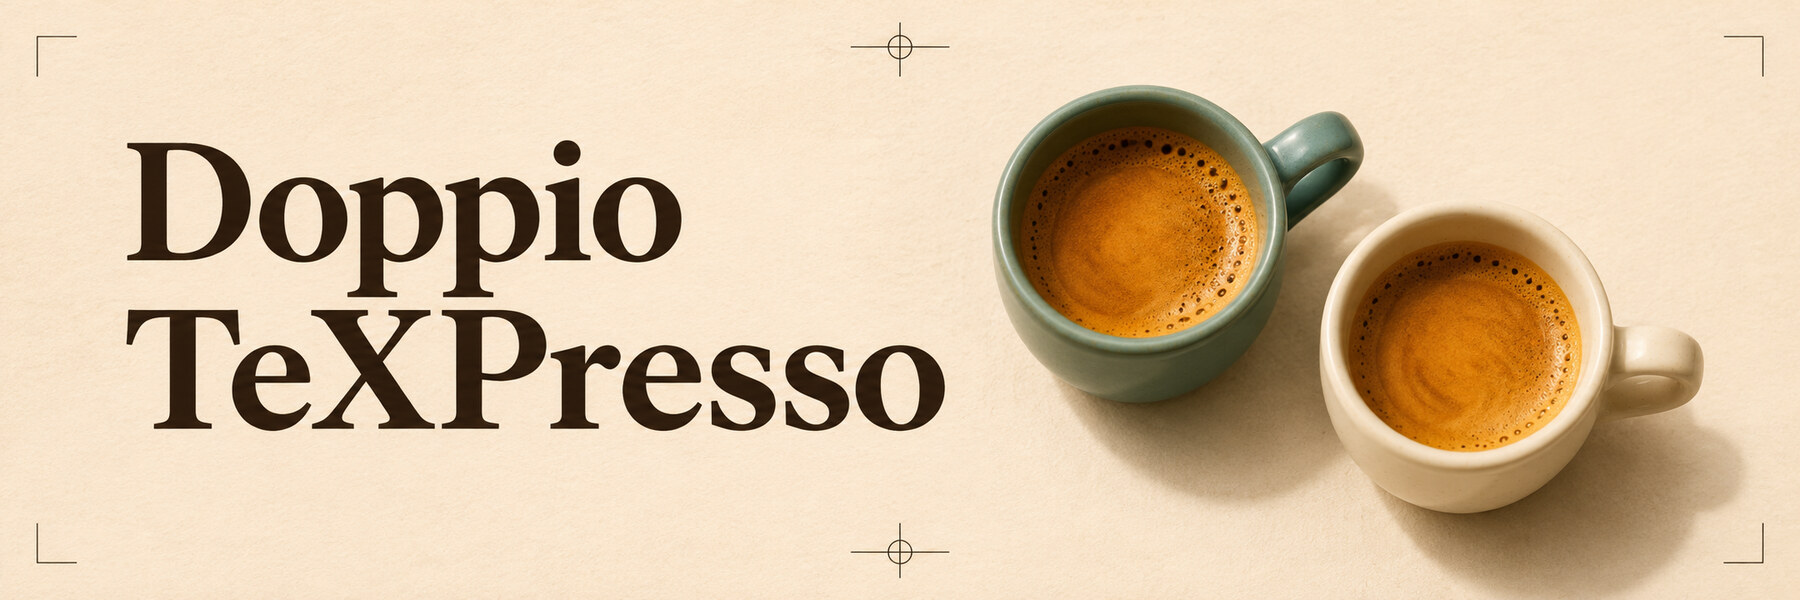
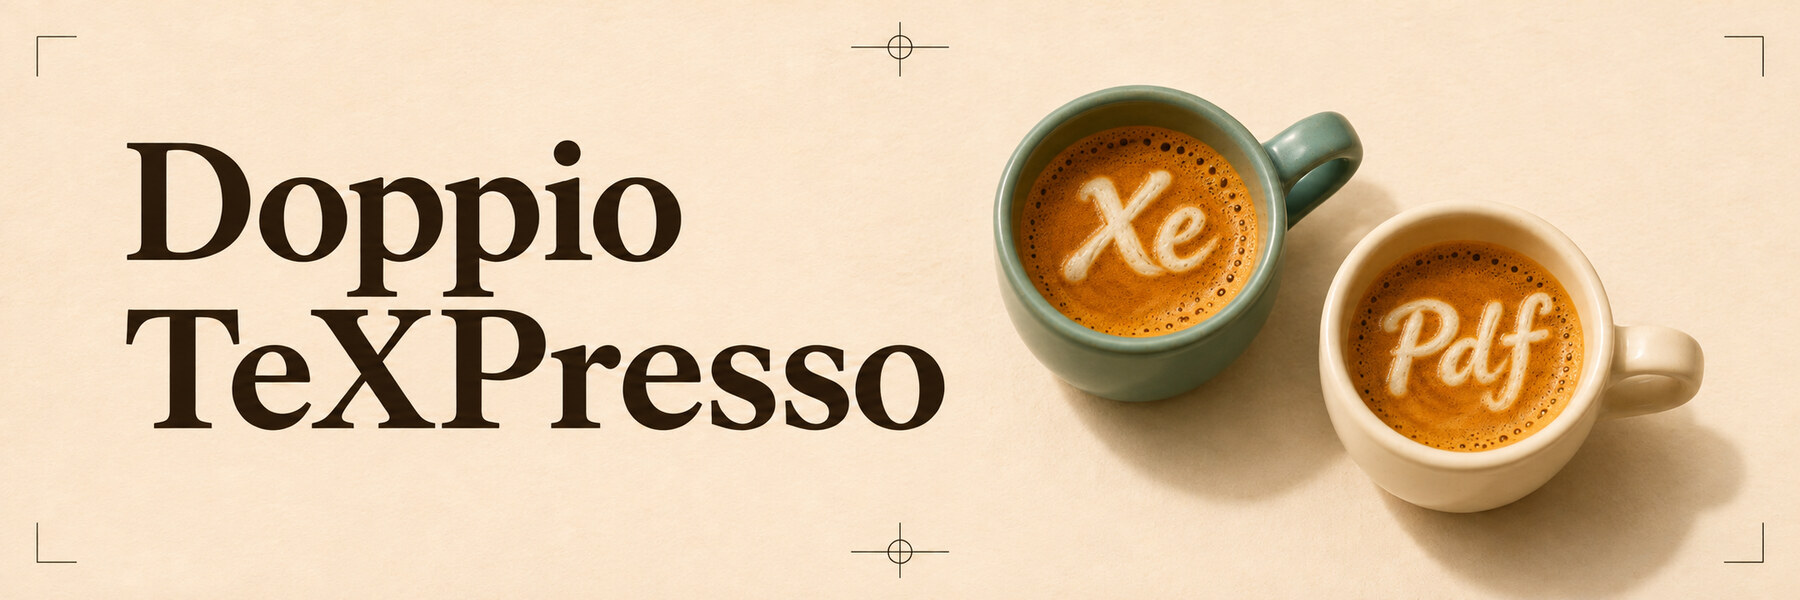
Letter the two espresso cups with Xe and Pdf foam

diff --git a/README.md b/README.md
@@ -1,5 +1,5 @@
 <p align="center">
-  <img src="https://raw.githubusercontent.com/PhotonYan/Doppio-TeXPresso/main/assets/doppio-header.jpg" alt="Doppio TeXPresso with two cups of espresso" width="900">
+  <img src="https://raw.githubusercontent.com/PhotonYan/Doppio-TeXPresso/main/assets/doppio-header.jpg?v=2" alt="Doppio TeXPresso with Xe and Pdf written in milk foam" width="900">
 </p>
 
 <p align="center">
